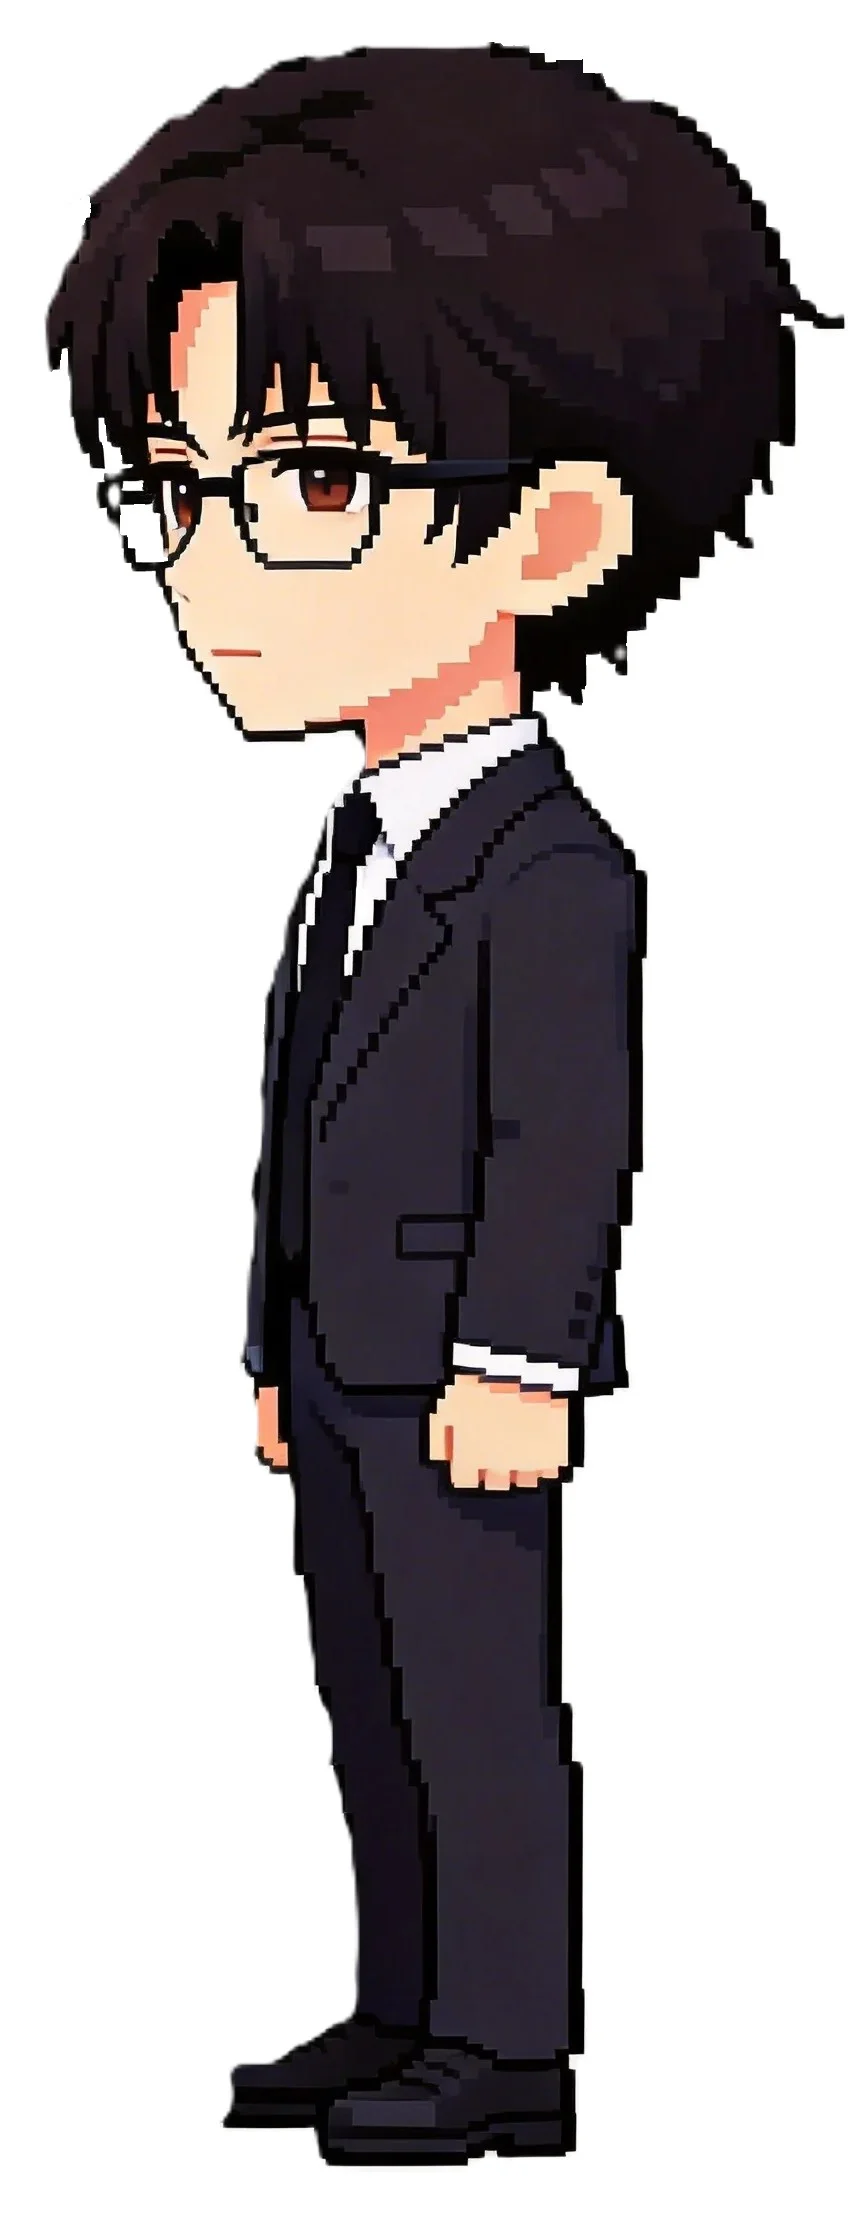
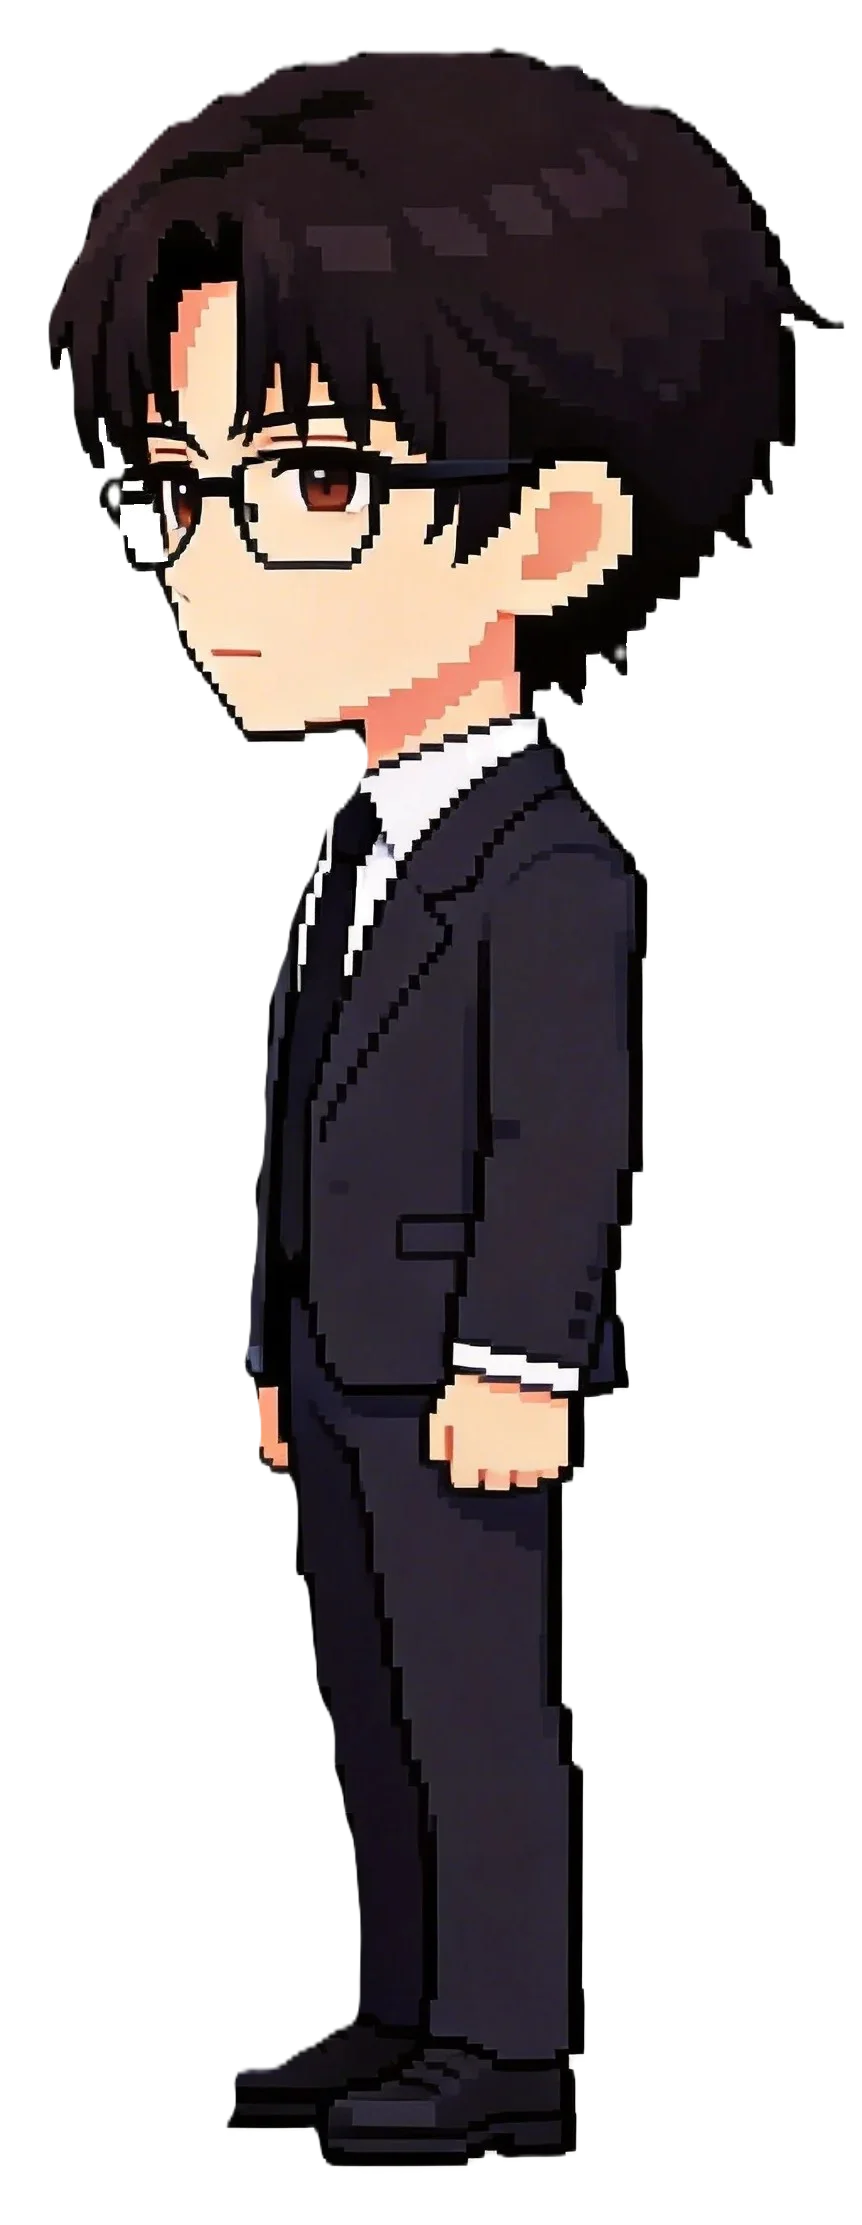
chore: 同步更新

diff --git a/js/common/gameState.js b/js/common/gameState.js
@@ -74,7 +74,7 @@ export const gameState = {
     settingsSource: null,
 
     // 游戏配置
-    playerSpeed: 12,
+    playerSpeed: 10,
 
     // 按键绑定
     keyBindings: {